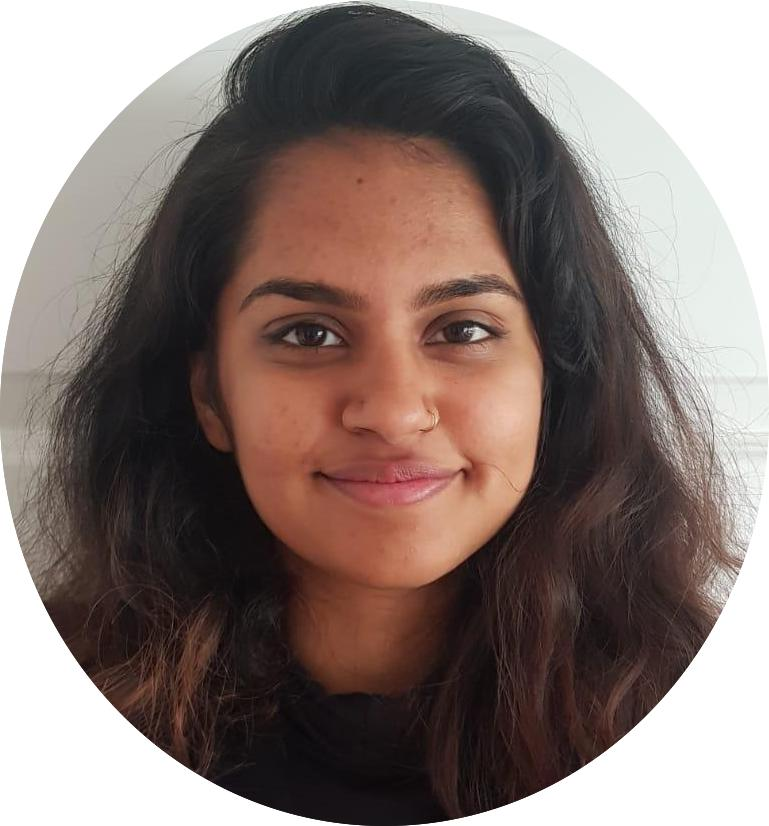
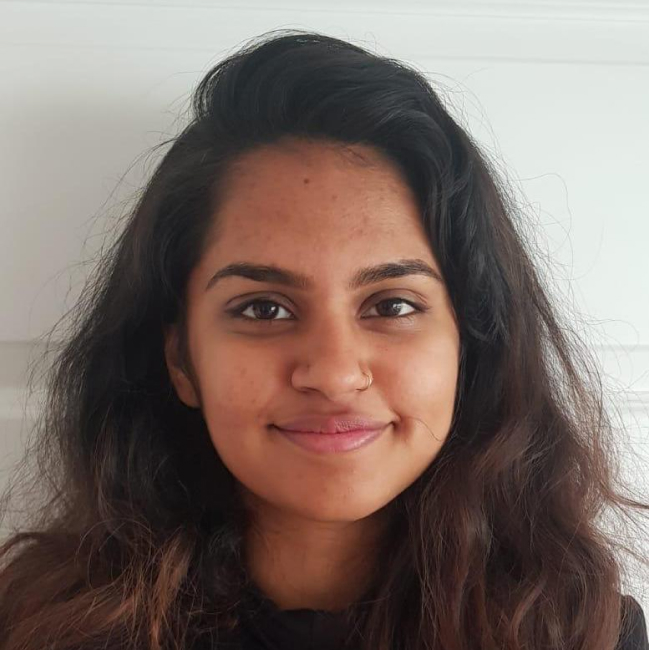
fix lavanya's profile

diff --git a/index.html b/index.html
@@ -1662,7 +1662,8 @@
                                             <div class="col-sm-4">
                                                 <div class="feature feature-3 boxed boxed--xlg boxed--border"
                                                     style="height:480px">
-                                                    <img alt="Image" src="img/Lavanya-fill.jpg" style="max-width: 60%;">
+                                                    <img alt="Image" src="img/lavanya.jpg" style="max-width: 60%;">
+                                                <!--desktop-->
                                                     <h4>Lavanya Pai</h4>
                                                     <span style="color: #33cc99;"> Instructional Designer</span>
                                                     <p style="margin-top:1vh">Instructional designer with an academic background in the social sciences. Passionate and curious about issues of labour rights and climate resilience. </p>
@@ -1736,7 +1737,7 @@
                                                         </div>
                                                     </div>
                                                     <div class="col-sm-6">
-                                                        <div class="feature feature-1 boxed boxed--md boxed--border">
+                                                        <div class="feature feature-1 boxed boxed--md boxed--border" style="min-height:14em;">
                                                             <i class="icon icon--md icon-Unlike"></i>
                                                             <h4>Dislikes</h4>
                                                             <p> Political apathy, country music
@@ -2201,6 +2202,118 @@
                                     </div>
                                 </li>
 
+
+
+
+
+
+
+
+
+                                <li>
+                                    <div class="container text-center">
+                                        <div class="row">
+                                            <div class="col-sm-4">
+                                                <div
+                                                    class="feature feature-3 boxed boxed--xlg boxed--border team-member">
+                                                    <img alt="Image" src="img/lavanya-fill.jpg">
+                                                    <h4>Lavanya Pai</h4>
+                                                    <span style="color: #33cc99;">Instructional Designer</span>
+                                                    <div class="team-member">
+                                                        <div class="tabs-container text-center"
+                                                            data-content-align="left">
+                                                            <ul class="tabs">
+                                                                <li class="active tab-button">
+                                                                    <div class="tab__title">
+                                                                        <span class="h5">About</span>
+                                                                    </div>
+                                                                    <div class="tab__content text-center">
+                                                                        <p> Instructional designer with an academic background in the social sciences. Passionate and curious about issues of labour rights and climate resilience.</p>
+                                                                    </div>
+                                                                </li>
+                                                                <li class="tab-button">
+                                                                    <div class="tab__title">
+                                                                        <span class="h5">Exp</span>
+                                                                    </div>
+                                                                    <div class="tab__content">
+                                                                        <section class=" ">
+                                                                            <div class="container text-center">
+                                                                                <div class="row">
+                                                                                    <p style="margin-top:1vh"> fieldwork relating to  women’s emancipation and social compliance in textile industries.
+                                                                                    </p>
+                                                                                </div>
+                                                                            </div>
+                                                                        </section>
+                                                                    </div>
+                                                                </li>
+                                                                <li class="tab-button">
+                                                                    <div class="tab__title">
+                                                                        <span class="h5">Likes</span>
+                                                                    </div>
+                                                                    <div class="tab__content text-center">
+                                                                        <section class=" ">
+                                                                            <div class="container">
+                                                                                <div class="row">
+                                                                                    <i
+                                                                                        class="icon icon--md icon-Like"></i>
+
+                                                                                    <p style="margin-top:1vh"> Activism for human rights, playing samba drums</p>
+                                                                                    <i
+                                                                                        class="icon icon--md icon-Unlike"></i>
+                                                                                    <p> Political apathy, country music
+                                                                                    </p>
+                                                                                </div>
+                                                                            </div>
+                                                                        </section>
+                                                                    </div>
+                                                                </li>
+                                                                <li class="tab-button">
+                                                                    <div class="tab__title">
+                                                                        <span class="h5">Connect</span>
+                                                                    </div>
+                                                                    <div class="tab__content text-center">
+
+                                                                        <div class="col-sm-4">
+                                                                            <div class="feature feature-3 boxed">
+                                                                                <a
+                                                                                    href="mailto:lavanya.pai@sustify.de">
+                                                                                    <i
+                                                                                        class="icon color--primary icon-Mail"></i>
+                                                                                    <p>lavanya.pai@sustify.de</p>
+                                                                                </a>
+                                                                            </div>
+                                                                        </div>
+                                                                        <div class="col-sm-4">
+                                                                            <a href="skype:sreejithvs333?call"
+                                                                                target="_blank">
+                                                                                <div class="feature feature-3 boxed">
+                                                                                    <i
+                                                                                        class="icon color--primary icon-Skype"></i>
+                                                                                    <p>Lavanya Pai</p>
+                                                                                </div>
+                                                                            </a>
+                                                                        </div>
+                                                                        <div class="col-sm-4">
+                                                                            <a href="https://goo.gl/kcBH6B">
+                                                                                <div class="feature feature-3 boxed">
+                                                                                    <i
+                                                                                        class="icon color--primary icon-Linkedin"></i>
+                                                                                    <p>https://goo.gl/kcBH6B</p>
+                                                                                </div>
+                                                                            </a>
+                                                                        </div>
+                                                                    </div>
+                                                                </li>
+                                                            </ul>
+                                                        </div>
+                                                    </div>
+                                                </div>
+                                            </div>
+                                        </div>
+                                    </div>
+                                </li>
+<!-- mobile -->
+<!--
                                 <li>
                                     <div class="container text-center">
                                         <div class="row">
@@ -2296,6 +2409,7 @@
                                         </div>
                                     </div>
                                 </li>
+                                -->
 
                                 <li>
                                     <div class="container text-center">
